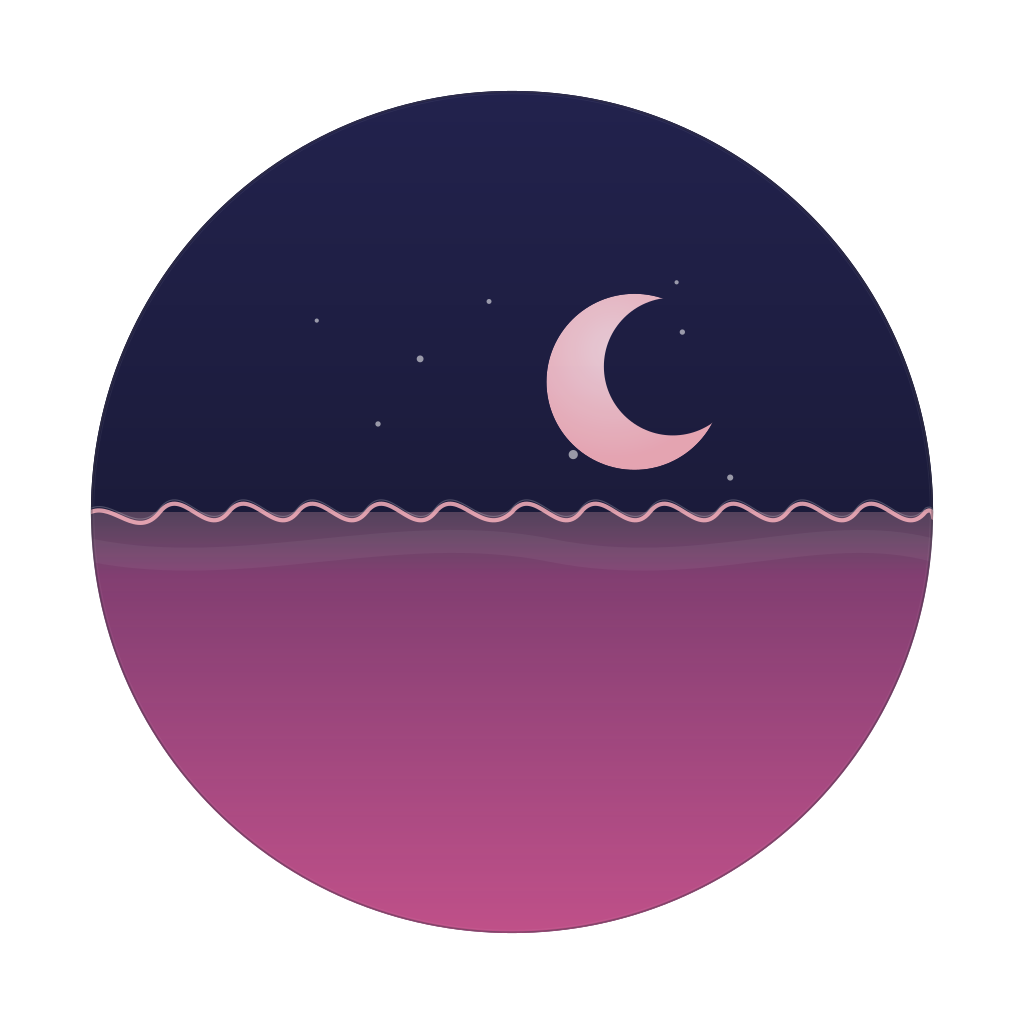
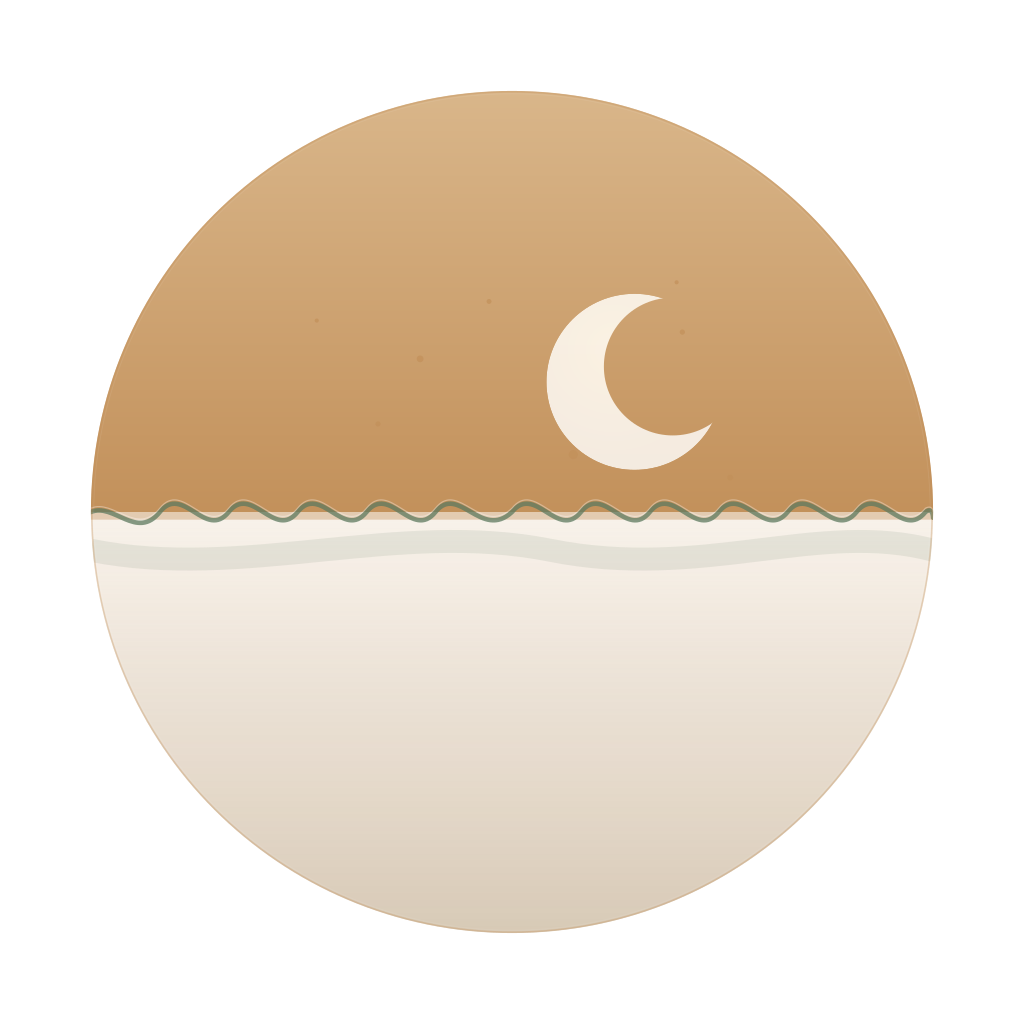
feat: enhanced notifications with phase info + ovulation reminder
- Period reminders now include current phase and day number
- Added ovulation day reminder (14 days before predicted period)
- Notification body shows dynamic phase info instead of static text
- New app icon: Golden Botanical tidal moon (amber+botanical)
- Splash screen background updated to #F8F2EA
- Android adaptive icon background changed to warm amber

diff --git a/src/services/notifications.ts b/src/services/notifications.ts
@@ -53,11 +53,10 @@ export async function scheduleDailyNotification(hour: number, minute: number): P
 /** Schedule period-approaching reminders. Call whenever records change. */
 export async function schedulePeriodReminders(): Promise<void> {
   try {
-    // Cancel existing period reminders
     const storedIds = await AsyncStorage.getItem(PERIOD_REMINDER_IDS_KEY);
     if (storedIds) {
       let ids: string[] = [];
-      try { ids = JSON.parse(storedIds); } catch { /* corrupted data — treat as empty */ }
+      try { ids = JSON.parse(storedIds); } catch { /* ignore */ }
       for (const id of ids) {
         await Notifications.cancelScheduledNotificationAsync(id);
       }
@@ -71,30 +70,50 @@ export async function schedulePeriodReminders(): Promise<void> {
     if (!nextStart) return;
 
     const predictedDate = parseDate(nextStart);
-
-    // Schedule reminders: 3 days before, 1 day before
-    const reminderDays = [
-      { daysBefore: 3, title: '⏰ 经期临近', body: '预计3天后经期到来，记得准备卫生用品哦' },
-      { daysBefore: 1, title: '🌸 经期将至', body: '预计明天是经期第一天，今天注意保暖和休息' },
-    ];
+    const avgDays = getAveragePeriodDays(records);
+    const cycleLength = getAverageCycleLength(records) || DEFAULT_CYCLE_DAYS;
 
     const newIds: string[] = [];
-    for (const reminder of reminderDays) {
-      const triggerDate = addDays(predictedDate, -reminder.daysBefore);
-      // Only schedule if the date is in the future
-      if (triggerDate.getTime() > Date.now()) {
-        const id = await Notifications.scheduleNotificationAsync({
-          content: {
-            title: reminder.title,
-            body: reminder.body,
-          },
-          trigger: {
-            type: Notifications.SchedulableTriggerInputTypes.DATE,
-            date: triggerDate,
-          },
-        });
-        newIds.push(id);
-      }
+
+    // 3 days before
+    const day3 = addDays(predictedDate, -3);
+    if (day3.getTime() > Date.now()) {
+      const info3 = getPhaseForDate(day3, predictedDate, avgDays, cycleLength);
+      const id = await Notifications.scheduleNotificationAsync({
+        content: {
+          title: '⏰ 经期临近',
+          body: `当前${PHASE_LABELS[info3.phase]}第${info3.dayOffset}天，预计3天后经期开始`,
+        },
+        trigger: { type: Notifications.SchedulableTriggerInputTypes.DATE, date: day3 },
+      });
+      newIds.push(id);
+    }
+
+    // 1 day before
+    const day1 = addDays(predictedDate, -1);
+    if (day1.getTime() > Date.now()) {
+      const info1 = getPhaseForDate(day1, predictedDate, avgDays, cycleLength);
+      const id = await Notifications.scheduleNotificationAsync({
+        content: {
+          title: '🌸 经期将至',
+          body: `当前${PHASE_LABELS[info1.phase]}第${info1.dayOffset}天，预计明天经期开始，注意保暖`,
+        },
+        trigger: { type: Notifications.SchedulableTriggerInputTypes.DATE, date: day1 },
+      });
+      newIds.push(id);
+    }
+
+    // Ovulation reminder (mid-cycle, if not in period)
+    const ovDay = addDays(predictedDate, -14);
+    if (ovDay.getTime() > Date.now() && records.length >= 2) {
+      const id = await Notifications.scheduleNotificationAsync({
+        content: {
+          title: '🥚 排卵期',
+          body: '今天可能是排卵期，状态通常会比较好',
+        },
+        trigger: { type: Notifications.SchedulableTriggerInputTypes.DATE, date: ovDay },
+      });
+      newIds.push(id);
     }
 
     await AsyncStorage.setItem(PERIOD_REMINDER_IDS_KEY, JSON.stringify(newIds));

diff --git a/scripts/generate-icons.js b/scripts/generate-icons.js
@@ -5,8 +5,8 @@ const path = require('path');
 const ASSETS = path.join(__dirname, '..', 'assets');
 const ANDROID_RES = path.join(__dirname, '..', 'android', 'app', 'src', 'main', 'res');
 const MARK_SVG = path.join(__dirname, 'icon-mark.svg');
-// Dark indigo from the tidal moon mark — matches the mark's own background circle
-const ICON_BG = '#1B1B3A';
+// Warm amber-gold from the Golden Botanical theme
+const ICON_BG = '#F8F2EA';
 
 async function iconMark(size) {
   return sharp(MARK_SVG, { density: 300 })
